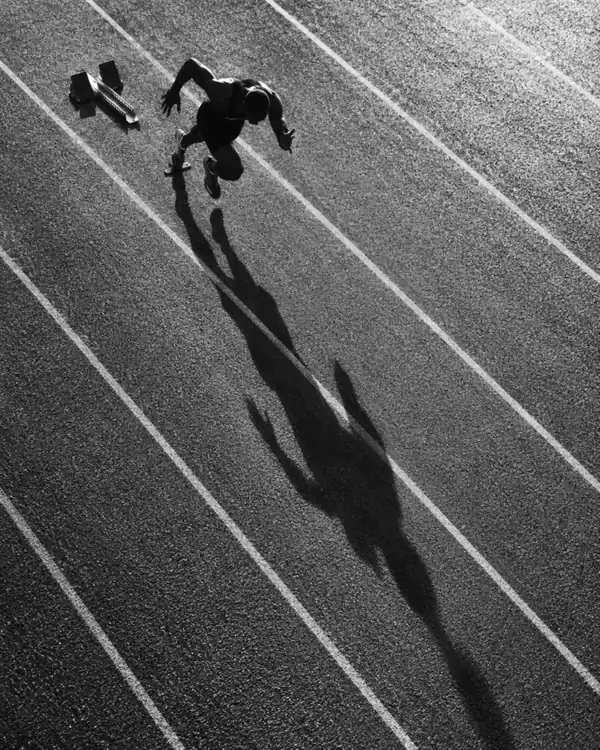
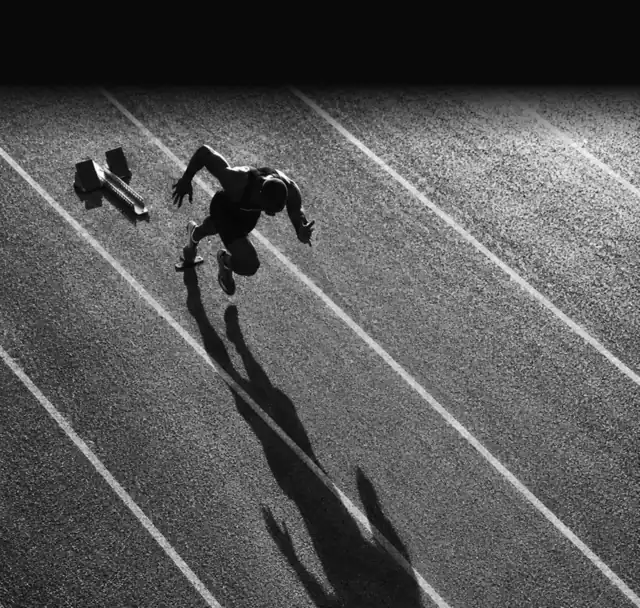
37a: fixes from the walk on Kd's phone, and its records
Precise asked again at Start; the GPS light after Start; the round buttons and the picked effort keep their border (Android's gradient crash); the track picture shows its runner; --:-- for no pace, average pace from 50 m, the wave from two kilometres; the Dashboard reads again when a run lands. ROADMAP's Running split in seven; rulings and handoff.

diff --git a/apps/mobile/src/screens/running/RunLayer.tsx b/apps/mobile/src/screens/running/RunLayer.tsx
@@ -83,6 +83,9 @@ export async function askLocation(): Promise<StartProblem | null> {
     if (!answer.canAskAgain) return "settings";
     answer = await Location.requestForegroundPermissionsAsync();
     if (!answer.granted) return answer.canAskAgain ? "denied" : "settings";
+  } else if (answer.android?.accuracy === "coarse") {
+    // Approximate given before this press: Android asks once more, with its own Precise button.
+    answer = await Location.requestForegroundPermissionsAsync();
   }
   if (answer.android?.accuracy === "coarse") return "approximate";
   return null;
@@ -211,6 +214,7 @@ function Countdown({ onGo }: { onGo: () => void }) {
       <Button
         kind="link"
         label="Start now"
+        style={styles.startNow}
         onPress={() => {
           if (went.current) return;
           went.current = true;
@@ -255,9 +259,9 @@ function useLiveNumbers(run: LiveRun, kg: number): { now: number; sums: RunSums 
 
 /** The pace over the last ten seconds, from where the person was then to where they are. */
 function paceNow(run: LiveRun, units: Units): string {
-  if (run.phase !== "running") return "–:–";
+  if (run.phase !== "running") return "--:--";
   const last = run.points[run.points.length - 1];
-  if (last === undefined) return "–:–";
+  if (last === undefined) return "--:--";
   let from = last;
   for (let i = run.points.length - 1; i >= 0; i--) {
     const p = run.points[i];
@@ -266,7 +270,7 @@ function paceNow(run: LiveRun, units: Units): string {
     if (last[0] - p[0] >= 10_000) break;
   }
   const seconds = (last[0] - from[0]) / 1000;
-  if (seconds < 5) return "–:–";
+  if (seconds < 5) return "--:--";
   return pace(seconds, geodesicMetres(from[1], from[2], last[1], last[2]), units);
 }
 
@@ -322,7 +326,7 @@ function Live({ run, units, kg, onHide }: { run: LiveRun; units: Units; kg: numb
           <Icon name="down" size={22} colour="textSoft" />
         </Pressable>
       </View>
-      <ScrollView contentContainerStyle={styles.liveNumbers}>
+      <ScrollView style={styles.grow} contentContainerStyle={styles.liveNumbers}>
         <Txt kind="eyebrow" colour="textFaint">
           Time
         </Txt>
@@ -347,7 +351,8 @@ function Live({ run, units, kg, onHide }: { run: LiveRun; units: Units; kg: numb
         </View>
         <View style={styles.pairs}>
           <Figure label="Pace now" value={paceNow(run, units)} unit={paceWord(units)} dim={isPaused} />
-          <Figure label="Average pace" value={pace(moving, metres, units)} unit={paceWord(units)} dim={isPaused} />
+          {/* No average until there is ground to average: a standing start reads as no pace. */}
+          <Figure label="Average pace" value={pace(moving, metres < 50 ? 0 : metres, units)} unit={paceWord(units)} dim={isPaused} />
         </View>
         <View style={styles.pairs}>
           <Figure label="Calories" value={String(sums?.kcal ?? 0)} dim={isPaused} />
@@ -357,11 +362,11 @@ function Live({ run, units, kg, onHide }: { run: LiveRun; units: Units; kg: numb
       <View style={styles.controls}>
         {isPaused ? (
           <>
-            <RoundButton label="Finish" kind="ghost" busy={busy} onPress={press(() => finishRun())} />
-            <RoundButton label="Resume" kind="main" busy={busy} onPress={press(() => resumeRun())} />
+            <RoundButton key="finish" label="Finish" kind="ghost" busy={busy} onPress={press(() => finishRun())} />
+            <RoundButton key="resume" label="Resume" kind="main" busy={busy} onPress={press(() => resumeRun())} />
           </>
         ) : (
-          <RoundButton label="Pause" kind="main" busy={busy} onPress={press(() => pauseRun())} />
+          <RoundButton key="pause" label="Pause" kind="main" busy={busy} onPress={press(() => pauseRun())} />
         )}
       </View>
     </View>
@@ -514,7 +519,8 @@ function Summary({ run, units, kg, onSaved }: { run: LiveRun; units: Units; kg: 
             </View>
           </View>
         ) : null}
-        {(units === "imperial" ? sums.splitsMi : sums.splitsKm).length > 0 ? (
+        {/* A wave needs two to compare: a run under two kilometres or miles has its pace above. */}
+        {(units === "imperial" ? sums.splitsMi : sums.splitsKm).length > 1 ? (
           <View style={styles.card}>
             <Txt kind="h3">{units === "imperial" ? "Miles" : "Kilometres"}</Txt>
             <PaceWave splits={units === "imperial" ? sums.splitsMi : sums.splitsKm} units={units} />
@@ -575,6 +581,7 @@ function Summary({ run, units, kg, onSaved }: { run: LiveRun; units: Units; kg: 
         <Button
           kind="dangerLink"
           label="Discard run"
+          style={styles.centred}
           onPress={() => {
             setAsking(true);
           }}
@@ -602,6 +609,7 @@ function Summary({ run, units, kg, onSaved }: { run: LiveRun; units: Units; kg: 
         <Button
           kind="link"
           label="Keep run"
+          style={styles.centred}
           onPress={() => {
             setAsking(false);
           }}
@@ -648,6 +656,7 @@ const styles = StyleSheet.create({
   },
   countNumber: { fontFamily: fonts.bold, fontSize: 140, lineHeight: 160, color: colours.text },
   countWord: { marginTop: 18 },
+  startNow: { alignSelf: "center" },
   // The run
   livePage: { flex: 1, backgroundColor: colours.page, paddingHorizontal: 22 },
   pausedBar: { position: "absolute", top: 0, left: 0, right: 0, height: 5, backgroundColor: colours.orange, boxShadow: shadows.dotGlow },
@@ -672,7 +681,9 @@ const styles = StyleSheet.create({
   controls: { flexDirection: "row", justifyContent: "center", gap: 38, paddingTop: 12 },
   roundWrap: { alignItems: "center" },
   round: { width: 96, height: 96, borderRadius: sizes.round, alignItems: "center", justifyContent: "center" },
-  roundMain: { experimental_backgroundImage: orangeGradient, boxShadow: shadows.roundButton },
+  // Both keep a border of one width: Android stops the app when a view gains a gradient as its
+  // border goes (React Native's BackgroundImageDrawable, seen on the moto g35).
+  roundMain: { experimental_backgroundImage: orangeGradient, borderWidth: 2, borderColor: "transparent", boxShadow: shadows.roundButton },
   roundGhost: { borderWidth: 2, borderColor: colours.grab, backgroundColor: colours.fill },
   roundLabel: { marginTop: 10, fontFamily: fonts.bold },
   pauseMark: { flexDirection: "row", gap: 9 },
@@ -697,9 +708,10 @@ const styles = StyleSheet.create({
   routeBox: { borderRadius: 14, backgroundColor: colours.tabBar, borderWidth: 1, borderColor: colours.line, overflow: "hidden" },
   feel: { flexDirection: "row", gap: 5 },
   feelDot: { flex: 1, minHeight: sizes.press, borderRadius: sizes.round, alignItems: "center", justifyContent: "center", backgroundColor: colours.fill, borderWidth: 1, borderColor: colours.line },
-  feelPicked: { experimental_backgroundImage: orangeGradient, borderWidth: 0, boxShadow: shadows.chip },
+  feelPicked: { experimental_backgroundImage: orangeGradient, borderColor: "transparent", boxShadow: shadows.chip },
   feelNumber: { fontFamily: fonts.bold },
   ends: { flexDirection: "row", justifyContent: "space-between" },
   note: { minHeight: 74, borderRadius: 14, backgroundColor: colours.field, borderWidth: 1, borderColor: colours.fieldLine, padding: 14, fontFamily: fonts.regular, fontSize: 15, color: colours.text, textAlignVertical: "top" },
   save: { marginTop: 10 },
+  centred: { alignSelf: "center" },
 });

diff --git a/apps/mobile/src/screens/running/RunningTab.tsx b/apps/mobile/src/screens/running/RunningTab.tsx
@@ -42,7 +42,7 @@ function useAutoPauseChoice(): [boolean, (on: boolean) => void] {
 }
 
 /** The GPS light before a run: only while the page is on screen and the person already allowed it. */
-function useGpsBefore(watching: boolean): ReturnType<typeof gpsLight> | null {
+function useGpsBefore(watching: boolean, asked: number): ReturnType<typeof gpsLight> | null {
   const [fix, setFix] = useState<{ at: number; accuracyM: number | null } | null>(null);
   const [allowed, setAllowed] = useState(false);
   const [now, setNow] = useState(Date.now());
@@ -71,7 +71,8 @@ function useGpsBefore(watching: boolean): ReturnType<typeof gpsLight> | null {
       stop?.();
       clearInterval(timer);
     };
-  }, [watching]);
+    // Asked again after each Start, so a location allowed at Start lights it at once.
+  }, [watching, asked]);
   return allowed ? gpsLight(fix, now) : null;
 }
 
@@ -83,7 +84,8 @@ export function RunningTab({ units }: { units: Units }) {
   const [problem, setProblem] = useState<StartProblem | null>(null);
   const [settings, setSettings] = useState(false);
   const going = layer.run !== null;
-  const gps = useGpsBefore(focused && !going);
+  const [asked, setAsked] = useState(0);
+  const gps = useGpsBefore(focused && !going, asked);
   const last = useRead("/v1/geo/runs?limit=1", runPageSchema, view.sent);
   const lastRun = last.read.kind === "ok" ? (last.read.data.items[0] ?? null) : null;
 
@@ -91,6 +93,7 @@ export function RunningTab({ units }: { units: Units }) {
     setProblem(null);
     const said = await layer.start(autoPause);
     setProblem(said);
+    setAsked((n) => n + 1);
   };
 
   return (
@@ -121,7 +124,12 @@ export function RunningTab({ units }: { units: Units }) {
           <Txt kind="small" colour="badText">
             {START_PROBLEM_WORDS[problem]}
           </Txt>
-          {problem === "settings" || problem === "approximate" ? (
+          {problem === "approximate" ? (
+            <View style={styles.choices}>
+              <Button kind="link" label="Allow precise location" onPress={() => void start()} />
+              <Button kind="quiet" label="Open settings" onPress={openAppSettings} />
+            </View>
+          ) : problem === "settings" ? (
             <Button kind="link" label="Open settings" onPress={openAppSettings} />
           ) : problem === "denied" ? (
             <Button kind="link" label="Allow location" onPress={() => void start()} />
@@ -213,6 +221,7 @@ const styles = StyleSheet.create({
   },
   goWord: { fontFamily: fonts.bold, fontSize: 21, letterSpacing: 0.5, color: colours.onOrange },
   problem: { gap: 4, alignItems: "flex-start" },
+  choices: { flexDirection: "row", gap: 16, flexWrap: "wrap" },
   said: { textAlign: "center" },
   rows: { borderRadius: sizes.boxRadius, backgroundColor: colours.box, borderWidth: 1, borderColor: colours.line },
   row: { flexDirection: "row", alignItems: "center", gap: 12, paddingHorizontal: 16, paddingVertical: 12, minHeight: 64 },

diff --git a/apps/api/test/geo.runs.record.routes.test.ts b/apps/api/test/geo.runs.record.routes.test.ts
@@ -7,12 +7,12 @@ import { readdirSync, readFileSync, statSync } from "node:fs";
 import { join } from "node:path";
 import { afterAll, beforeAll, describe, expect, it } from "vitest";
 import postgres from "postgres";
+import { z } from "zod";
 import {
   runDetailSchema,
   runPageSchema,
   runSums,
   saveRunResponseSchema,
-  type RunPoint,
   type SaveRunRequest,
 } from "@app/shared";
 import { buildApp } from "../src/app.js";
@@ -47,8 +47,8 @@ const cookieMap = (res: { cookies: { name: string; value: string }[] }) => Objec
 
 const RAD = Math.PI / 180;
 /** A run going north from a front door in Guwahati at `mps` metres a second, one point a second. */
-function northRun(seconds: number, mps: number): RunPoint[] {
-  const points: RunPoint[] = [];
+function northRun(seconds: number, mps: number): SaveRunRequest["points"] {
+  const points: SaveRunRequest["points"] = [];
   for (let i = 0; i <= seconds; i++) points.push([i * 1000, 26.1445 + (i * mps) / 110_760, 91.7362 + 0.00001 * Math.sin(i * RAD * 7), 5]);
   return points;
 }
@@ -135,7 +135,7 @@ d("record a run (real Postgres)", () => {
       const taken = await save(stranger.cookies, body({ runId: run.runId, name: "Not yours", points: northRun(60, 3), elapsedMs: 60_000 }));
       expect(taken.statusCode).toBe(404);
       expect(taken.body).not.toContain("polyline");
-      const own = runDetailSchema.parse(JSON.parse((await inject({ method: "GET", url: `/v1/geo/runs/${run.runId}`, cookies: runner.cookies })).body).run);
+      const own = z.object({ run: runDetailSchema }).parse(JSON.parse((await inject({ method: "GET", url: `/v1/geo/runs/${run.runId}`, cookies: runner.cookies })).body)).run;
       expect(own.distanceM).toBeGreaterThan(3000);
       const kept = await sql<{ name: string; user_id: string }[]>`SELECT name, user_id FROM runs WHERE id = ${run.runId}`;
       expect(kept).toEqual([{ name: "Morning Run", user_id: runner.id }]);

diff --git a/apps/mobile/src/screens/Dashboard.tsx b/apps/mobile/src/screens/Dashboard.tsx
@@ -54,6 +54,7 @@ import { useRead, type Read } from "./dashboard/useRead";
 import { IDEAS_READ } from "./food/MealIdeas";
 import { Recommended } from "./food/MealPlan";
 import { useMealOutbox } from "./food/MealOutbox";
+import { useRunOutbox } from "./running/RunOutbox";
 import { GOALS_READ, GoalsBox, GoalsPage, type GoalsOpen } from "./Goals";
 import { LeaderboardPage, type LeaderboardPlace } from "./gym/Leaderboard";
 import { rankWords } from "./gym/leaderboardView";
@@ -87,12 +88,15 @@ export function DashboardScreen() {
   const go = useNavigation<NavigationProp<ParamListBase>>();
   // The week, the streak and the totals are keyed by day in the person's zone: read again once it is saved.
   const zoneSaved = useZoneSaved();
-  const overview = useRead(DASHBOARD_READS.overview, progressOverviewSchema, zoneSaved);
-  const me = useRead(DASHBOARD_READS.me, gamificationMeSchema, zoneSaved);
-  const week = useRead(DASHBOARD_READS.week, progressTrendSchema, zoneSaved);
+  // A run the server has just taken changes the sessions, the XP, the week and Recent Activity (37a).
+  const { view: runsSent } = useRunOutbox();
+  const fresh = zoneSaved + runsSent.sent;
+  const overview = useRead(DASHBOARD_READS.overview, progressOverviewSchema, fresh);
+  const me = useRead(DASHBOARD_READS.me, gamificationMeSchema, fresh);
+  const week = useRead(DASHBOARD_READS.week, progressTrendSchema, fresh);
   const challenges = useRead(DASHBOARD_READS.challenges, weeklyChallengesSchema);
   const recent = useRead(DASHBOARD_READS.recent, workoutPageSchema);
-  const runs = useRead(DASHBOARD_READS.runs, runPageSchema);
+  const runs = useRead(DASHBOARD_READS.runs, runPageSchema, runsSent.sent);
   // A meal logged from the Recommended box shows in Recent Activity once the server has it.
   const { view: mealsSent } = useMealOutbox();
   const meals = useRead(DASHBOARD_READS.meals, mealPageSchema, mealsSent.sent);

diff --git a/apps/mobile/test/runRules.test.ts b/apps/mobile/test/runRules.test.ts
@@ -9,7 +9,7 @@ describe("a run's words", () => {
   it("are the clock, the distance and the pace in the person's own units", () => {
     expect([clock(0), clock(59), clock(767), clock(3725)]).toEqual(["0:00", "0:59", "12:47", "1:02:05"]);
     expect([distance(5120, "metric"), distance(5129, "metric"), distance(5120, "imperial")]).toEqual(["5.12", "5.12", "3.18"]);
-    expect([pace(1720, 5120, "metric"), pace(1720, 5120, "imperial"), pace(0, 0, "metric"), pace(5000, 10, "metric")]).toEqual(["5:36", "9:01", "–:–", "–:–"]);
+    expect([pace(1720, 5120, "metric"), pace(1720, 5120, "imperial"), pace(0, 0, "metric"), pace(5000, 10, "metric")]).toEqual(["5:36", "9:01", "--:--", "--:--"]);
     expect([splitLabel(2, 1000, "metric"), splitLabel(5, 120, "metric"), splitLabel(0, 1609, "imperial")]).toEqual(["3", "0.12", "1"]);
     expect(leftOutLine(1840, "metric")).toBe("1.84 km isn't counted: it was faster than anyone has ever run.");
   });

diff --git a/apps/mobile/test/screens/running.test.tsx b/apps/mobile/test/screens/running.test.tsx
@@ -222,7 +222,7 @@ describe("the location, before a run", () => {
   it.each([
     ["not allowed", { granted: false, canAskAgain: true }, "Allow location to record your run.", "Allow location"],
     ["turned off for the app", { granted: false, canAskAgain: false }, "Location is off for this app. Turn it on in Settings.", "Open settings"],
-    ["approximate only", { accuracy: "coarse" }, "Turn on Precise location to measure your run.", "Open settings"],
+    ["approximate only", { accuracy: "coarse" }, "Turn on Precise location to measure your run.", "Allow precise location"],
     ["the phone's location off", { services: false }, "Turn on your phone's location to record your run.", null],
   ] as const)("%s: says what to do, with its button, and starts nothing", async (_, answer, words, button) => {
     Object.assign(location, answer);

diff --git a/apps/mobile/src/screens/running/runWords.ts b/apps/mobile/src/screens/running/runWords.ts
@@ -23,11 +23,11 @@ export function distance(metres: number, units: Units): string {
   return (hundredths / 100).toFixed(2);
 }
 
-/** "5:36" a kilometre or a mile; "–:–" with no distance or a pace nobody walks (over an hour a unit). */
+/** "5:36" a kilometre or a mile; "--:--" with no distance or a pace nobody walks (over an hour a unit). */
 export function pace(seconds: number, metres: number, units: Units): string {
-  if (metres <= 0 || seconds <= 0) return "–:–";
+  if (metres <= 0 || seconds <= 0) return "--:--";
   const each = Math.round((seconds / metres) * metresPer(units));
-  if (each >= 3600) return "–:–";
+  if (each >= 3600) return "--:--";
   return `${String(Math.floor(each / 60))}:${two(each % 60)}`;
 }
 

diff --git a/apps/api/src/modules/geo/routes.ts b/apps/api/src/modules/geo/routes.ts
@@ -174,7 +174,7 @@ export function registerGeoRoutes(
       }
       try {
         const saved = await service.saveRun({ sql: deps.sql, now: () => new Date() }, authedUserId(req), input);
-        return reply.status(saved.status === "created" ? 201 : 200).send(saved);
+        return await reply.status(saved.status === "created" ? 201 : 200).send(saved);
       } catch (err) {
         if (err instanceof ForeignRunError) return notFound(req, reply);
         if (err instanceof service.RunInFutureError) {

diff --git a/handoff/2026-11-05-37a.md b/handoff/2026-11-05-37a.md
@@ -1,0 +1,13 @@
+# 2026-11-05 · Stage 5 item 37a (feature folder 2): Record a run (branch `record-a-run`)
+
+Kd's decisions: `rulings/2026-11-05-37a.md`.
+
+- **Why this job:** 36 (the weekly plan) waits for exercise folder 2's item 60 (the server's 58 exercises have no muscles or equipment yet); 37 was next. Split in seven (ROADMAP). **Risky**; Opus xhigh recommended, built at Opus 5.5 high and max, as set.
+- **Worst thing:** a person's route, from their front door, read by anybody else. First tests: `apps/api/test/geo.runs.record.routes.test.ts` (a stranger gets 404 for the run, an empty list, and cannot take its id; no file outside geo, gamification, workouts and privacy reads `runs`) and `apps/mobile/test/screens/running.test.tsx` (a run left on the phone by another account is never shown).
+- **Built, maths** (`packages/shared/src/runMaths.ts`): WGS84 distance (Vincenty), points less sure than 30 m left out, a jump away and back left out, a stretch faster than the world record for its time left out (with its distance and time), a Kalman filter with a Rauch–Tung–Striebel pass back and its ends kept as the phone gave them, a 3 m step, km and mile splits, calories from the 2024 Compendium's walking and running rows.
+- **Built, server:** `POST /v1/geo/runs` (the run's id is its Idempotency-Key; every number worked out again; 3 MB limit; a start more than 10 minutes ahead refused); migration 0208 (name, effort, note, elapsed, left out, calc version); a run of 200 m or more keeps the streak and earns 50 XP.
+- **Built, phone:** expo-location 57.0.22 (published 2026-10-21; its one move, @expo/image-utils 0.11.5 to 0.11.6, published 2026-10-06; no install scripts), while in use only, through Android's service and its notice. Workout's three tabs; Running (GPS light, last run, Start, Auto-pause, units); 3 2 1; the run; Pause, Auto-pause, Finish; the summary (name, moving and elapsed time, pace, calories, the white-gold route with a stone each kilometre, the pace wave, how it felt, a note, Save, Discard). Points kept in files as they come; a run saved waits on the phone until the server has it. Pictures: Kd's `track` and `greekrun`.
+- **Measured:** distance within 0.2 % of a laid-out track and 2 % with 2–6 m of phone error; the real UCI car and bus trips over 30 km/h 75–100 % left out, city traffic under 15 km/h 22 % on average. The server's maths for a run: 6–7 ms half an hour, 7–8 ms an hour, 23–27 ms four hours, 78–105 ms twelve (the most), at 2,592 MHz on mains.
+- **Walked on Kd's phone** (Feature 2, dashwalk31a, moto g35, Android 15): Android asks While using the app (no "all the time"); Approximate, then Start again asks for Precise; 3 2 1; the service runs as a location foreground service, and 65 points came in over 40 s with the screen locked; a closed and reopened app finds the run; Finish, the summary, rename, how it felt, Save (one POST, the row as sent); Discard asks and keeps nothing. Fixed on the walk: the track picture cut to show the runner, Start now and Discard centred, --:-- for no pace, the average pace from 50 m, the wave from two kilometres, the numbers scrolling above the buttons, Precise asked again, the GPS light after Start, the Dashboard read again when a run lands, and a crash: a view that gained a gradient as its border went (the round buttons, the picked effort), as 15b's. Four shapes (own, 1812x2176 at 420, 720x1520 at 320, text 1.5) fit; settings put back (1080x2400, 400, 1.15). The notice "Recording your run" is hidden on this copy because it may not notify; the run records all the same.
+- **Deliberate breaks** of the core rule (a run read by id alone; a stranger's send under another's id taken; a gym file reading `runs`): each turned the worst-thing tests red, each put back.
+- **Its ROADMAP line as it stood:** 37. [ ] **Running** (item 4; Stage 1's 7b): recording by GPS with the screen off, the map, the summary, the run plan, routes. Its Running tab in Recommended For You takes the three choices and rules of spec Part 6 §16.6.

diff --git a/rulings/2026-11-05-37a.md b/rulings/2026-11-05-37a.md
@@ -1,0 +1,13 @@
+# Rulings · 2026-11-05 · Stage 5 item 37a, Record a run (feature folder 2)
+
+What was built: `handoff/2026-11-05-37a.md`. The drawings shown to Kd: `reviews/37a-run-mock.png` and `reviews/37a-run-mock-2.png` (this folder only).
+
+## Running
+
+- 2026-11-05 · **Why 37 and not 36.** The weekly plan (36) picks exercises by muscle and equipment, and the server's 58 exercises have neither yet (exercise folder 2's item 60); 37 was the first item of this folder's list whose needs were met. Told to Kd in the plan; no objection.
+- 2026-11-05 · **More of what professional apps do.** Shown the first plan, Kd: *"is this plan correct can we add more features to this run like what professional applications do"*. Shown a table of what Strava and Nike Run Club do and where each would go (37a: countdown, Auto-pause, units, calories, name, how it felt, a note, Discard; 37a-ii the voice; 37b hills; 37c records and the pace chart; 37d run-walk intervals; later: shoes, live location to a friend, treadmill; after launch: heart rate from a watch), Kd: *"make a plan then we will build"*.
+- 2026-11-05 · **The plan, checked against the apps' own help pages.** Kd: *"go but calculations etc needs to be accurate"*. Numbers on the lock screen were taken out of the list at the plan: neither Strava's nor Nike's own pages say an Android phone shows them, and the location package cannot change its notice mid-run; the voice (37a-ii) gives them.
+- 2026-11-05 · **The drawings.** Drawing 1 (`37a-run-mock.png`), Kd: *"excellent job but in pic 3 instead of orange line why dont we give a white line with some yellow mix and glowing other wise it looks same as starva same for pic 5, also instead of starught line may be some creativity"*. Drawing 2: the route a white-gold glowing trail with a numbered stone at each kilometre; each kilometre's pace a glowing wave in place of straight bars.
+- 2026-11-05 · **What the summary shows.** Kd: *"excellent job but will it show , distances, elev gain, pace, cal,time,avg HR,moving time?"*. Distance, pace, calories, moving time and elapsed time in 37a; hills climbed in 37b from a free public height map, as Strava's basemap does on Android; heart rate its own job, 37f, from a Bluetooth strap or a watch. Kd: *"yes"*.
+- 2026-11-05 · *The terminal's own, his to overrule:* a run of 200 m or more keeps the streak (spec Part 7 §3.1 already says a run does) and earns a workout's 50 XP; shorter earns nothing, so an accidental Start and Finish counts for nothing. Calories are MET × kg × hours as workouts', the MET read from the 2024 Adult Compendium's walking and running rows by each kilometre's speed (a range at its middle; row 12026 left out, being below the walking rows at the same speeds). A stretch faster than the world record for its length of time is left out, with its distance and time, and the summary says so; a car crawling at running speed in traffic cannot be told apart and is counted, as no app publishes a rule that can. A point the phone is less sure of than 30 m is left out. Auto-pause is on until the person turns it off, from the phone's own speed: under 0.6 m/s for 4 s pauses from the moment of stopping; three points over 1.2 m/s start the clock again from the first. The Workout tab opens on Exercises, where the Dashboard's Browse Exercises points; Running is the third tab. A run is named by the hour it began ("Morning Run"). The location is asked for while in use only, never all the time.
+- 2026-11-05 · *The terminal's own, from its walk on the moto g35, his to overrule:* a person who gave Approximate is asked once more at Start, in Android's own "Change to precise location" box, with Allow precise location and Open settings under the line; the average pace waits for the first 50 m; the pace wave shows from two kilometres or miles; the run's notice is Android's to hide when the copy may not notify, and the run records all the same.

diff --git a/ROADMAP.md b/ROADMAP.md
@@ -684,9 +684,16 @@ Order (Kd, 2026-09-13, reshaped 2026-09-17; RULINGS both days; Stage 1's food le
       - 35c-ii. [x] **Log body measurements on Body** — merged 2026-11-05 (PR #471).
       - 35c-iii. [x] **Achievements** — merged 2026-11-05 (PR #474).
 36. [ ] **The weekly plan**: the plan builder on the server (6a), the week screen (6b). Doing a planned workout (6c) is exercise folder 2's item 64. Once the plan names a week's sessions, calories burned joins the starter goals with the plan's own number (RULINGS 2026-10-13). Its Workout tab in Recommended For You takes the three choices and rules of spec Part 6 §16.6.
-37. [ ] **Running** (item 4; Stage 1's 7b): recording by GPS with the screen off, the map, the summary, the run plan, routes. Its Running tab in Recommended For You takes the three choices and rules of spec Part 6 §16.6.
+37. **Running** (item 4; Stage 1's 7b; split 2026-11-05 in seven, Kd's "go", `rulings/2026-11-05-37a.md`: recording first). Its Running tab in Recommended For You takes the three choices and rules of spec Part 6 §16.6.
+    - 37a. [ ] **Record a run**: Start, 3 2 1, the screen locked, Pause and Auto-pause, the summary, Save once, Discard.
+    - 37a-ii. [ ] **A voice each kilometre or mile** (one more free Expo package).
+    - 37b. [ ] **The map under the run, and hills climbed** (MapLibre; elevation from a free public height map, as Strava's basemap does).
+    - 37c. [ ] **Your runs**: the list, a run's page, records (fastest 1 km or mile, 5 km, 10 km, longest run), the pace chart.
+    - 37d. [ ] **The run plan**, run-walk intervals with voice, and Recommended For You's Running tab.
+    - 37e. [ ] **Routes.**
+    - 37f. [ ] **Heart rate from a chest strap or watch.**
 38. [ ] **Reminders** for workouts, meals and streaks (the six switches the web drew and never saved); the global board last, as Kd ruled on 2026-11-01 (`rulings/2026-11-01-17c-ii-a.md`): Active days and Running, the server's checks, a stranger's profile, and follow requests for somebody who chose Hide me, seen from outside their gym; Follow with Followers and Following counts everywhere, gyms included (`rulings/2026-11-01-17c-ii-b.md`). It waits for items 18, 37, 53 and 64.
-39. [ ] **Share with your photo** (Kd, 2026-10-18; spec Part 2 §11.8): after a workout, a meal photo or a run, the person takes or picks a photo and the stats are drawn on it, made on the phone and sent through the phone's own share menu. Built once for all three, after items 33 and 37 and exercise folder 2's 64; it brings Part 7 §5's share cards forward from After launch.
+39. [ ] **Share with your photo** (Kd, 2026-10-18; spec Part 2 §11.8): after a workout, a meal photo or a run, the person takes or picks a photo and the stats are drawn on it, made on the phone and sent through the phone's own share menu. A run's map drawn on it hides its start and end near the person's home, as Strava's does (37a's plan, 2026-11-05). Built once for all three, after items 33 and 37 and exercise folder 2's 64; it brings Part 7 §5's share cards forward from After launch.
 
 **Exercise folder 1 — `D:\Projects\ai-home-gym-ex1`: the camera and the form rules** (spec Part 2 §11).
 
